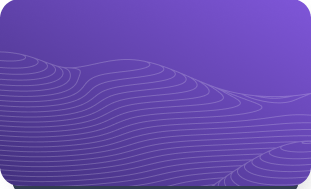
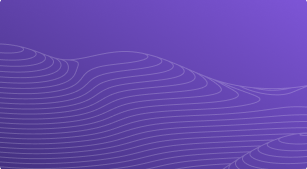
update

diff --git a/components/Supplier/wallet/TransactionPage.vue b/components/Supplier/wallet/TransactionPage.vue
@@ -12,7 +12,7 @@
             @change="getData()"
             @keyup="debounceSearch"
             placeholder="Search"
-            class="border border-[#E7E7E7] focus:pr-3 pl-10 rounded-lg w-[280px] text-sm focus:outline-none py-[10px] transition ease-in-out duration-300"
+            class="border border-[#E7E7E7] focus:pr-3 pl-10 rounded-lg w-full lg:w-[280px] text-sm focus:outline-none py-[10px] transition ease-in-out duration-300"
             type="search"
           />
         </div>
@@ -41,7 +41,7 @@
       <div v-if="!isPageLoading">
         <div
           v-if="isEmpty"
-          class="overflow-hidden border border-[#EAECF0] rounded-lg"
+          class="overflow-auto border border-[#EAECF0] rounded-lg max-w-full"
         >
           <table class="w-full">
             <thead>

diff --git a/components/Supplier/wallet/SideBox.vue b/components/Supplier/wallet/SideBox.vue
@@ -4,7 +4,7 @@
   >
     <div class="px-4 pb-4 border-b border-[#EAECF0]">
       <div
-        class="w-[311px] h-[150px] bg-gray-700 px-5 py-4 rounded-2xl flex flex-col justify-between bg-cover shadow-[7.873417377471924px_9.841772079467773px_15.746834754943848px_0px_rgba(0,0,0,0.05)]"
+        class="lg:w-[311px] h-[160px] bg-gray-700 px-5 py-4 rounded-2xl flex flex-col justify-between bg-cover shadow-[7.873417377471924px_9.841772079467773px_15.746834754943848px_0px_rgba(0,0,0,0.05)]"
         :style="{ backgroundImage: `url('/images/card.png')` }"
       >
         <span class="flex items-center justify-between text-white">

diff --git a/components/Supplier/wallet/IndexComponnent.vue b/components/Supplier/wallet/IndexComponnent.vue
@@ -4,11 +4,11 @@
     <HeaderComponent
       title="Wallet"
       subtext="Fund and withdraw money from your account"
-      className="border-[rgba(234,236,240,1)] !px-0"
+      className="border-[rgba(234,236,240,1)] !px-4 lg:!px-0"
     />
     <VerificationBox />
-    <div class="py-[30px] flex gap-x-4">
-      <div class="max-w-[365px]">
+    <div class="py-[30px] flex lg:gap-x-4 gap-y-8 lg:gap-y-0 flex-col lg:flex-row px-4">
+      <div class="lg:max-w-[365px]">
         <SideBox />
       </div>
       <div class="flex-1"><SupplierWalletTransactionPage /></div>
